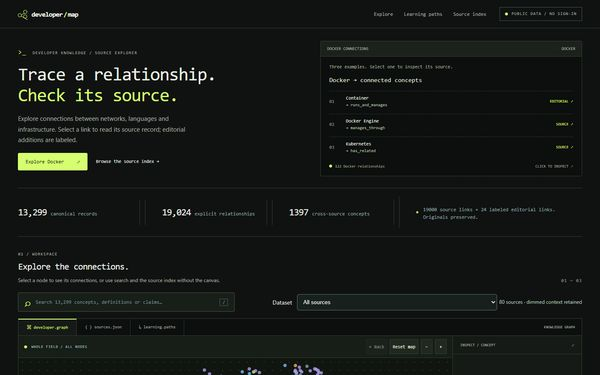
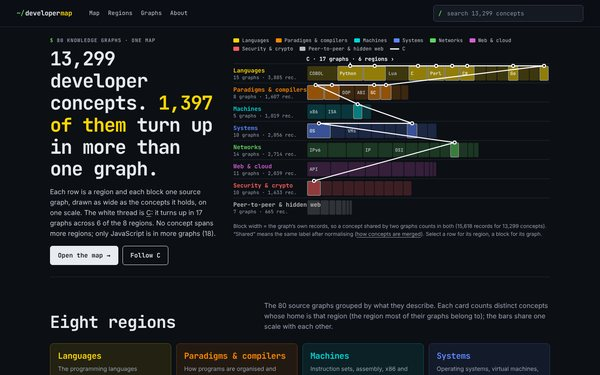
Developer Map: new screenshot and line for the rebuilt site

diff --git a/site/index.html b/site/index.html
@@ -294,11 +294,11 @@
             <span class="meta">
               <span class="plate">No. 19</span>
               <span class="title" id="t-developer-map">Developer Map</span>
-              <span class="line">Concepts and connections behind how computers work.</span>
+              <span class="line">13,299 developer concepts from 80 knowledge graphs; 1,397 turn up in more than one. Terminal colours, one per region.</span>
               <span class="go" id="g-developer-map">Visit developer-map.shadw.app<span class="sr-only"> (opens in a new tab)</span></span>
             </span>
           </a>
-          <ul class="tags"><li>Maps &amp; atlases</li><li>Graph</li><li>Search</li></ul>
+          <ul class="tags"><li>Maps &amp; atlases</li><li>4,750 pages</li><li>Static Next.js</li></ul>
         </li>
         <li class="card" data-group="maps" id="work-globalism-calc">
           <a href="https://globalism-calc.shadw.app" target="_blank" rel="noopener" aria-labelledby="t-globalism-calc g-globalism-calc">
